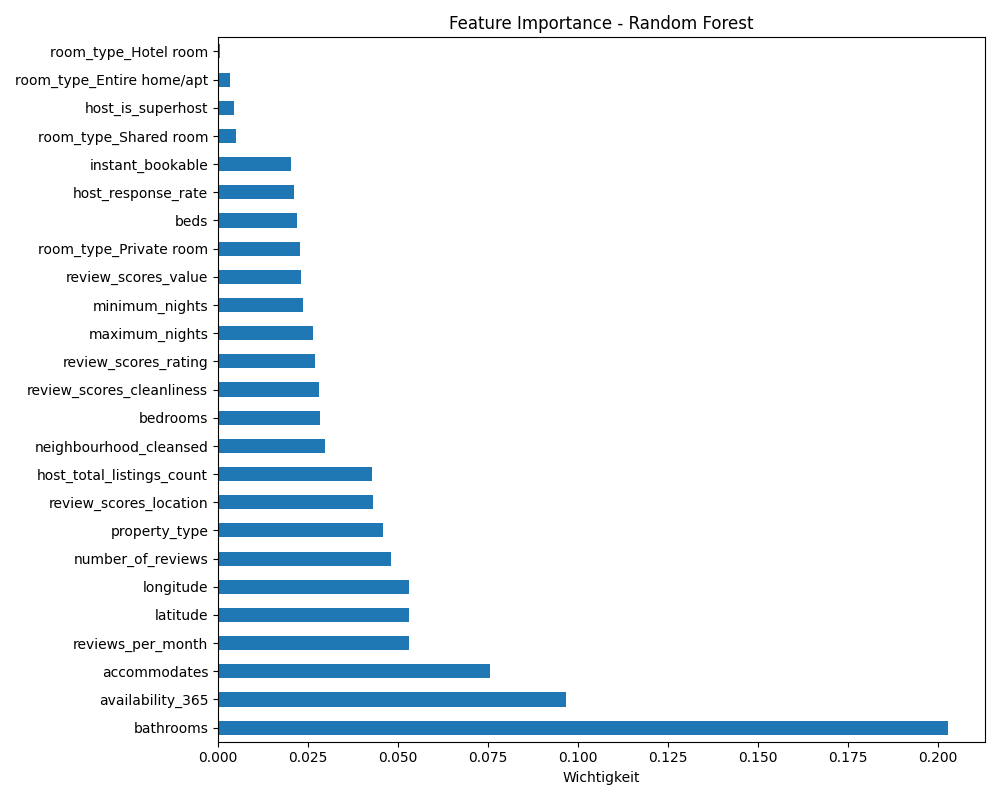
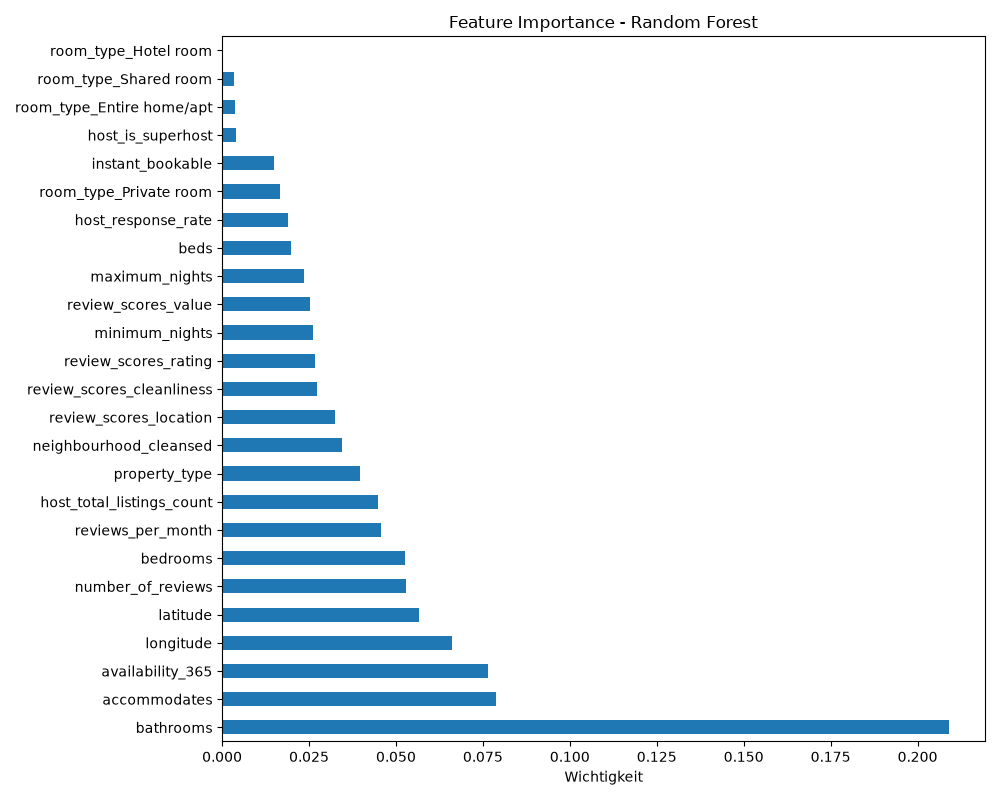
Code angepasst

diff --git a/model.py b/model.py
@@ -9,7 +9,7 @@ import matplotlib.pyplot as plt
 df = pd.read_csv("data/listings_clean.csv")
 
 # Freitext-Spalten rauswerfen (kann Modell noch nicht verarbeiten)
-df = df.drop(["id","name", "description", "amenities"], axis=1)
+df = df.drop(columns=[col for col in ["id", "name", "description", "amenities"] if col in df.columns])
 
 # X (Features) und y (Zielvariable) trennen
 X = df.drop("price", axis=1)
@@ -66,5 +66,5 @@ plt.title("Feature Importance - Random Forest")
 plt.xlabel("Wichtigkeit")
 plt.tight_layout()
 plt.savefig("feature_importance.png")
-print("✅ Gespeichert als feature_importance.png")
+print("Gespeichert als feature_importance.png")
 

diff --git a/model2.py b/model2.py
@@ -66,5 +66,5 @@ plt.title("Feature Importance - Random Forest")
 plt.xlabel("Wichtigkeit")
 plt.tight_layout()
 plt.savefig("feature_importance2.png")
-print("✅ Gespeichert als feature_importance2.png")
+print("Gespeichert als feature_importance2.png")
 